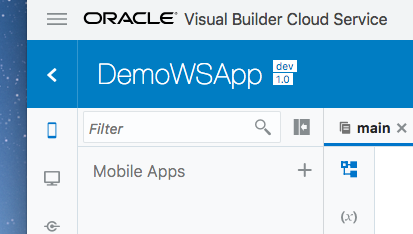
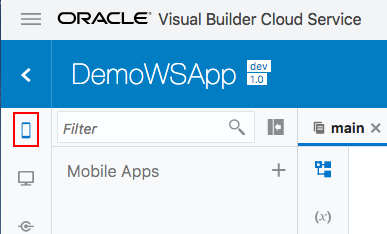
Q/a for Lab 300

diff --git a/LabGuide300.md b/LabGuide300.md
@@ -2,13 +2,9 @@
 
 # Lab 300 - Creating a Mobile Application
 
-Updated: July 16, 2018
-
 ## Introduction
 
 This is the third of several labs that are part of the **Oracle Autonomous Visual Builder Cloud Service workshop.** This lab will walk you through creating a mobile application and displaying inventory data.
-
-**_To log issues_**, click here to go to the [github oracle](https://github.com/oracle/learning-library/issues/new) repository issue submission form.
 
 ## Objectives
 
@@ -17,92 +13,105 @@ This is the third of several labs that are part of the **Oracle Autonomous Visua
 
 ## Required Artifacts
 
-- The following lab requires an Oracle Public Cloud account that will be supplied by your instructor.
-
-- This lab assumes that you have completed the previous labs in this series and created the items covered in those labs. If you have not, download the `DemoWSApp_MobileLabImport.zip` file and after creating an application in VBCS(instructions found in lab 100), import the zip file provided to set up the items created in the previous labs.
+- This lab assumes that you have completed [Lab 100](LabGuide100.md) and [Lab 200](LabGuide200.md).
 
 # Create a Mobile Application
 
-### **STEP 1**: Add the Mobile App to Our Application
+### **STEP 1**: Add a Mobile App to Our Application
 
-- If you are not already, log in to the Visual Builder Cloud Service(instructions on how to do so are in Lab 100)
+- In your application development console, click on **Mobile** icon in the far left panel.
 
-- In your application development console, click on **Mobile** icon in the far left panel. It is the icon that resembles a mobile phone and is highlighted blue in the image below.
-
-  ![](images/300/moblieIcon.png)
+![](images/300/moblieIcon.png)
 
 - Click the button **"+ Mobile Application"** to create a new mobile application instance.
 
-  ![](images/300/createMobileApp.png)
+![](images/300/createMobileApp.png)
 
-- You will be presented with the **New Mobile Application** window. In this window, name the mobile application **InventoryMobileApp** and choose the basic navigation style layout without a bottom bar, then click **Finish**.
+- You will be presented with the New Mobile Application window. In this window, name the mobile application ```InventoryMobileApp``` and choose the  bottom bar navigation style, then click **Finish**.
 
-  ![](images/300/newMobileApp.png)
+![](images/LabGuide300-93c6a76c.png)
 
-- If you still have your web application tabs open you may want to close those at this time to prevent any confusion. (Your applications pages can be configured to have custom names other than the names you see in the tabs but for our purposes the defaults will do.)
+- You will see the new app created with the name **item1-start**. To keep the page clean close all your web application pages.
+
+![](images/LabGuide300-793ca291.png)
 
 ### **STEP 2**: Add Mobile App Pages
 
 - At this point you should be seeing a view of your mobile application in the development console. We'll now begin adding pages to display an inventory overview and item details.
 
-![](images/300/mobileView.png)
+![](images/LabGuide300-6860aa88.png)
 
-The steps to add pages will be familiar if you have completed the web application creation lab in this series.
-
-The main page for our application is created for us automatically by AVBCS so we will begin by adding components to display our data.
+The steps to add pages will be familiar if you have completed the web application creation lab in this series. The main page for our application is created for us automatically, so we will begin by adding components to display our data.
 
 - From the component list, drag a **List View** over to the mock phone and drop it on the page.
 
-  ![](images/300/mobileListComponent.png)
+![](images/300/mobileListComponent.png)
 
 - You should see the default list view component on your app. Next we'll customize the data displayed.
 
   ![](images/300/mobileListDefault.png)
 
-- To associate our inventory data with the list, in the right panel select **Add Data**. (If you DO NOT see **Add Data** you may need to expand the right panel or click on the **Quick Add** icon in the "List View" panel, highlighted below)
+- To associate our inventory data with the list, in the right panel select **Add Data**.
 
-  ![](images/300/addPage.png)
+  ![](images/100/LabGuide100-6c8df0e9.png)
 
-- VBCS assists us in selecting data for our list:
+- Expand **Business Objects --> Inventory** menu and select the **GET /Inventory** entry, once it is highlighted blue click **Next**.
 
-- For **Select Endpoint** expand **Business Objects** > **Inventory** and select the **GET /Inventory** entry, then click **Next**.
+![](images/100/LabGuide100-95393e95.png)
 
-![](images/300/inventoryEndpoint.png)
+- Choose the **title1** template at the top of the list and then click **Next**.
 
-- For **Choose Template** we will use the default template which is at the top of the list and then click **Next**.
+![](images/100/LabGuide100-faabe0ef.png)
 
-![](images/300/defaultTemplate.png)
+- For our **Fields** we will select data from the **Endpoint Structure** and drag them into the **Fields** boxes.
 
-- For our **Fields** we will select data from the **Endpoint Structure** and drag them into the **Fields** boxes. Drag the following items into the listed Field and then click **Next**:
-  - "title1": name
-  - "title2": variant
-  - "value1": quantity
-  - "value2": reserved
+  - **title1**: name
+  - **title2**: variant
+  - **value1**: quantity
+  - **value2**: reserved
 
-![](images/300/dataFields.png)
+![](images/100/drag_drop_fields.png)
+
+- Your screen should look like the following before you click **NEXT**:
+
+![](images/100/final_fields.png)
 
 - We don't need to define a query for our data, so we can click **Finish**.
 
-  ![](images/300/mobileData.png)
+![](images/100/finish.png)
 
-- At this point we have a mobile application that will display our data and we can look at the the live app by clicking on the **Play** button in the top right corner.
+- At this point we have a mobile application that will display our data. Press the **run** button to view your mobile application running in a new tab.
 
-  ![](images/300/mobileLive.png)
+![](images/100/liveView.png)
+
+- You should see the following.
+
+![](images/300/mobileLive.png)
 
 Our app is displaying our data but our inventory/reserved counts aren't labeled. Let's add labels so users will know what these numbers mean. To do that we can customize the data displayed in our list view.
 
-- Exit **Live** mode and return to the design view of your app. Select an item in the list so that it is highlighted with a blue border and a **List Item** tag.
+- Exit **Live** mode by closing your new tab. Select the row with the wine called Fresh of type Riesling. You should see the a blue border behind the **List Item** tag noting the row is selected.
 
-  ![](images/100/listItem.png)
+![](images/100/listItem.png)
 
-- In the detail panel on the right side, select the **General** tab. We can add our label to the data in the fields. We add the label as a quoted string inside the double square brackets. So the data in the "Value1" field will contain the following
+- We add a custom label to the list view so the data in the fields will accurately describe the inventory and reserve levels numeric values.
+
+ Copy the syntax below into the **Value1** field
 
   `[["Inventory: " + $current.data.quantity]]`
 
-  and the "Value2" field will have:
+  and the syntax below into the **Value2** field:
 
   `[["Reserved: " + $current.data.reserved]]`
 
-* Now our app displays a list of the available wines with their labeled inventory count and reserved count.
+![](images/100/LabGuide100-6a2979a3.png)
+
+- Now our app displays a list of the available wines with their labeled inventory count and reserved count.
 
   ![](images/300/countsLabeled.png)
+
+  # Summary
+
+  We have now created a mobile application in Autonomous Visual Builder Cloud Service, added our business data. The next lab in the series will guide us through adding update and edit features to allow the app's users to update inventory counts from the app.
+
+  - You may proceed to [Lab 400](LabGuide400.md)
